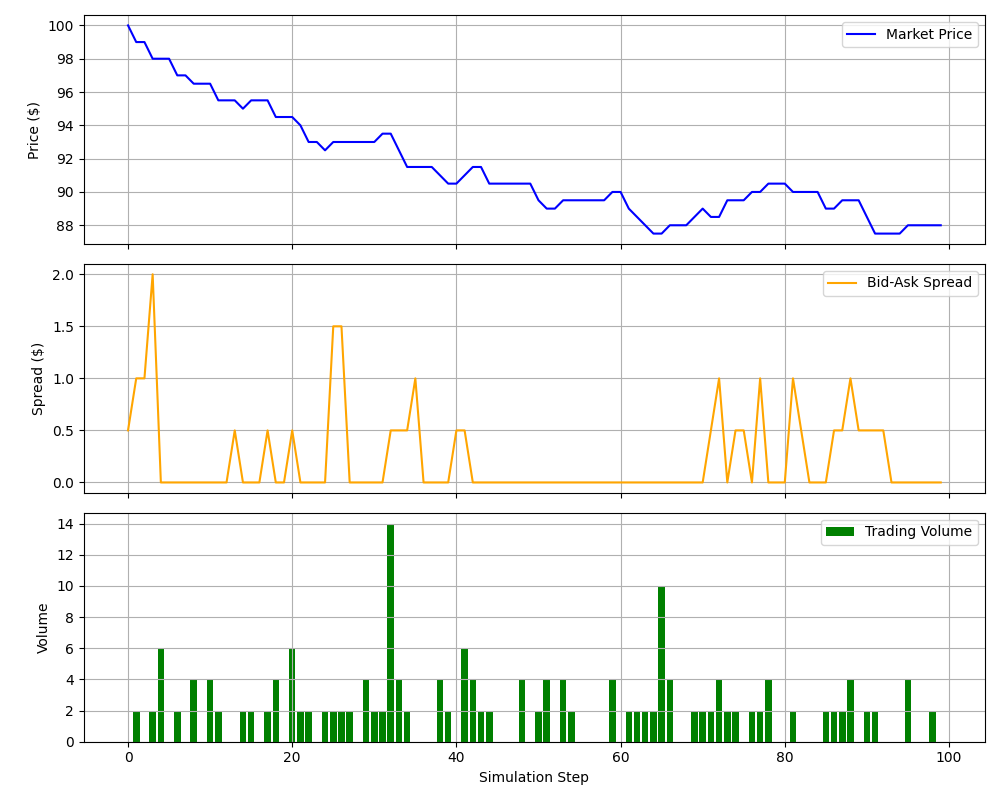
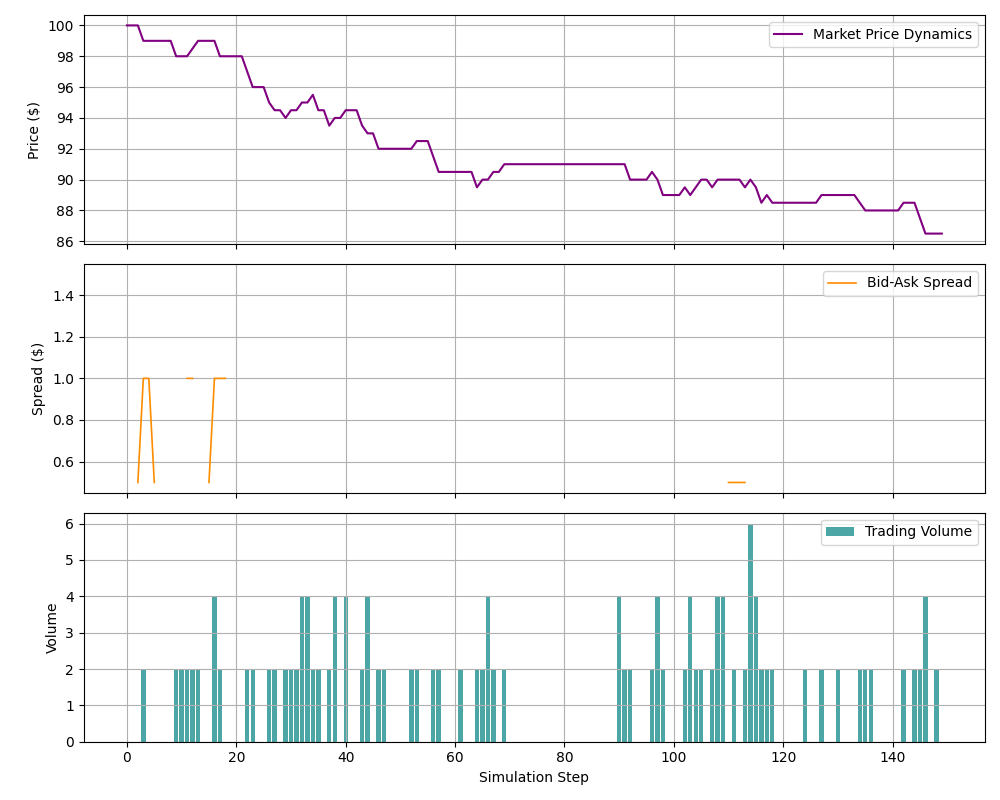
Update README to match current simulation results

diff --git a/README.md b/README.md
@@ -1,51 +1,42 @@
 # Heterogeneous Multi-Agent Limit Order Book (LOB) Simulation
 
-An agent-based financial simulation modeling order book dynamics, price discovery, and volatility regimes driven by heterogeneous behavioral trader archetypes using reinforcement learning.
+An agent-based simulation of a limit order book populated by reinforcement learning traders with different behavioral traits.
 
 ![Market Dynamics](behavioral_experiment_results.png)
 
 ## Overview
 
-This repository simulates a continuous Limit Order Book (LOB) populated by distinct agent archetypes to evaluate how behavioral traits impact market quality, bid-ask spreads, and price discovery.
-
-This project is inspired by Lussange et al. (2024), who study the same three trader traits (learning rate, herding, and noise trading) using their SYMBA multi-agent reinforcement learning simulator. This is an independent, simplified implementation, not a replication: it uses Q-learning agent archetypes and is not calibrated to real market data.
+This project is inspired by Lussange et al. (2024), who study how three trader traits (learning rate, herding, and noise trading) affect market stability using their SYMBA multi-agent reinforcement learning simulator. This is an independent, simplified implementation, not a replication: it uses Q-learning agents and is not calibrated to real market data.
 
 ### Agent Archetypes
 
-- **Standard Q-Learning Traders ($\alpha = 0.1, \varepsilon = 0.2$):** Evaluate cumulative rewards to anchor market clearing prices toward fundamental value.
+- **Standard Q-Learning Traders ($\alpha = 0.1, \varepsilon = 0.2$):** Baseline learning agents.
+- **High-Alpha Traders ($\alpha = 0.85$):** React strongly to recent outcomes.
+- **Herding Traders ($P_{\text{herd}} = 0.75$):** Copy the dominant action of the previous step.
+- **Noise Traders:** Submit random orders and do not learn.
 
-- **High-Alpha Traders ($\alpha = 0.85$):** Overreact strongly to short-term price shifts, inducing temporary mispricings.
+## Key Findings
 
-- **Herding Traders ($P_{\text{herd}} = 0.75$):** Copy dominant market trends, driving directional momentum and volatility clustering.
+Noise-trader experiment (50 agents, 500 steps, 20 runs per setting), raising the share of noise traders from 0% to 80%:
 
-- **Noise Traders ($\varepsilon = 1.0$):** Submit uncoordinated random orders, acting as continuous baseline liquidity providers.
+![Noise-trader experiment](noise_trader_experiment.png)
 
-## Key Empirical Findings
-
-- **High Fundamental Correlation ($r = 0.9872$):** Demonstrates long-term price efficiency despite localized behavioral distortions.
-
-- **Volatility Spikes:** Herding runs temporarily drain order book depth, spiking rolling volatility up to **0.0315**.
-
-- **Liquidity Buffering:** Uncoordinated noise trading reduces order starvation and narrows average bid-ask spreads.
+- **Higher trading volume:** average volume per step rises from 7.4 to 18.8, consistent with the paper.
+- **Lower volatility:** return volatility falls from 0.0036 to 0.0023, also consistent with the paper.
+- **Narrower spreads:** the quoted bid-ask spread narrows from 0.57 to 0.53, the opposite of the paper's result. A likely cause is that agents here quote within a fixed band around the last price rather than from heterogeneous private valuations.
+- **Fewer empty books:** the share of steps where one side of the book has no orders drops from 71% to 9%.
 
 ## Getting Started
 
-### Prerequisites
-
 ```bash
 pip install -r requirements.txt
-```
-
-### Running the Simulation
-
-```bash
 python market_environment.py
 ```
 
-Outputs simulation plots as `behavioral_experiment_results.png`.
+Outputs `behavioral_experiment_results.png` and `noise_trader_experiment.png`, and prints the experiment table.
 
 ## References
 
 Lussange J, Vrizzi S, Palminteri S, Gutkin B (2024). Mesoscale effects of trader learning behaviors in financial markets: A multi-agent reinforcement learning study. *PLoS ONE* 19(4): e0301141. https://doi.org/10.1371/journal.pone.0301141
 
-The authors' original simulator (SYMBA, C++): https://github.com/johannlussange/symba
+Original simulator (SYMBA, C++): https://github.com/johannlussange/symba
